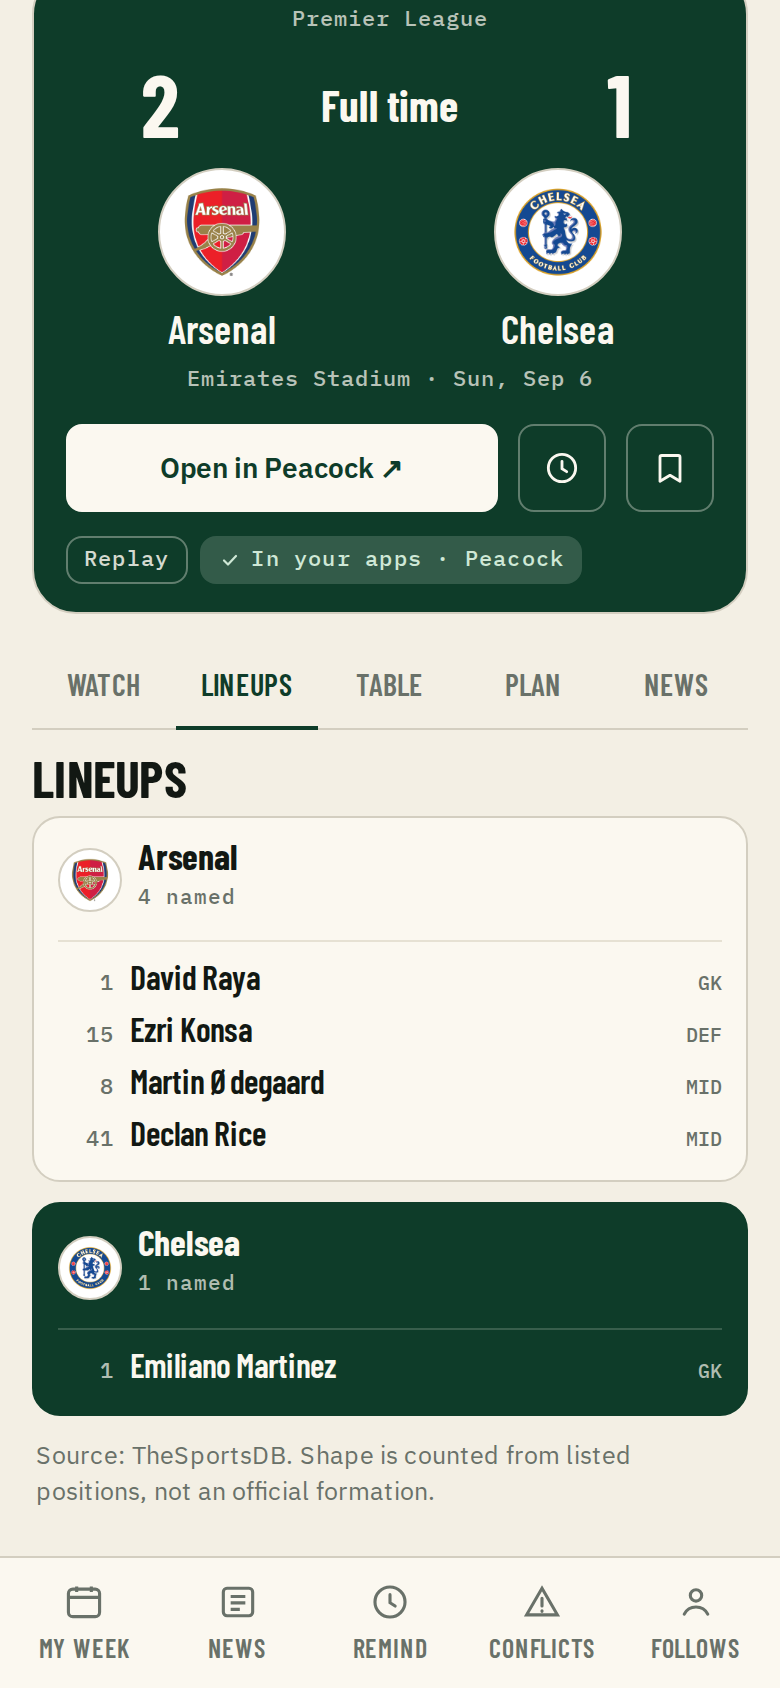
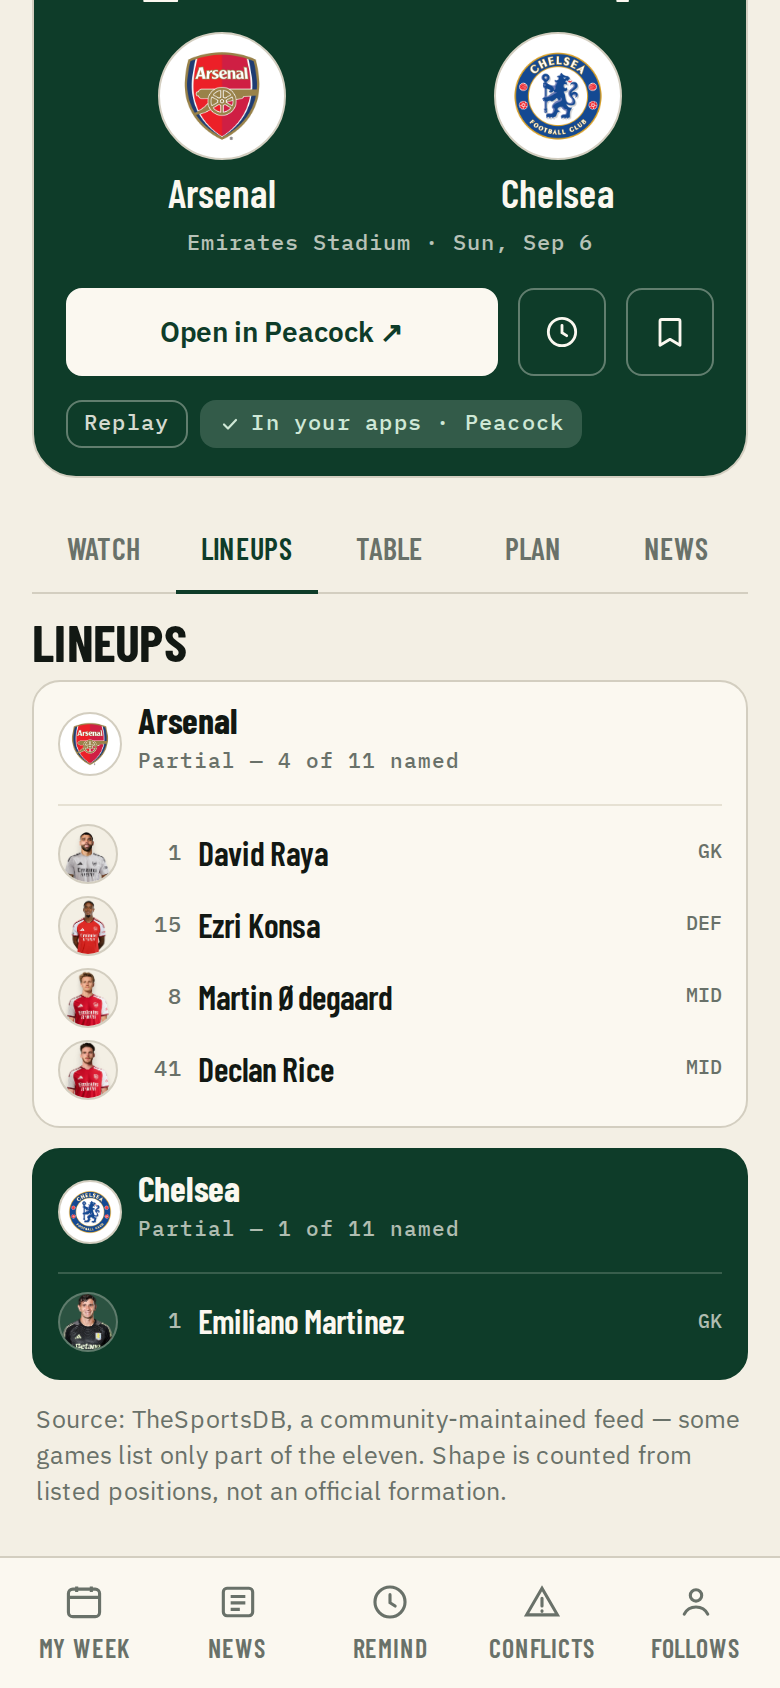
Player photos in lineups, club badges in the table
- Lineup rows show the feed's player cutout (lazy, falls back to a numbered circle)
- Table rows show the club badge: catalogue crest when known, else the feed's tiny badge

diff --git a/src/components/MatchExtras.tsx b/src/components/MatchExtras.tsx
@@ -1,5 +1,5 @@
 import { useEffect, useState } from 'react'
-import { getTeam } from '../data/teams'
+import { getTeam, TEAM_BY_SPORTSDB } from '../data/teams'
 import type { Fixture, Team } from '../domain/types'
 import {
   fetchLineup,
@@ -130,7 +130,12 @@ export function TablePanel({ fixture }: { fixture: Fixture }) {
             return (
               <tr key={r.teamSportsDbId} className={ids.has(r.teamSportsDbId) ? 'is-us' : undefined}>
                 <td className={gap ? 'gap' : undefined}>{r.rank}</td>
-                <td className="left">{r.team}</td>
+                <td className="left">
+                  <span className="club-cell">
+                    <TableBadge row={r} />
+                    {r.team}
+                  </span>
+                </td>
                 <td>{r.played}</td>
                 <td>{r.goalDiff > 0 ? `+${r.goalDiff}` : r.goalDiff}</td>
                 <td className="pts">{r.points}</td>
@@ -146,6 +151,14 @@ export function TablePanel({ fixture }: { fixture: Fixture }) {
   )
 }
 
+/** Crest for a table row: our catalogue if we know the club, else the feed's tiny badge. */
+function TableBadge({ row }: { row: StandingRow }) {
+  const known = TEAM_BY_SPORTSDB[row.teamSportsDbId]
+  const src = known?.espnLogoUrl ?? known?.badgeUrl ?? row.badgeUrl
+  if (!src) return <span className="table-badge empty" aria-hidden="true" />
+  return <img className="table-badge" src={src} alt="" loading="lazy" width={20} height={20} />
+}
+
 function ordinal(n: number): string {
   const s = ['th', 'st', 'nd', 'rd']
   const v = n % 100
@@ -154,9 +167,32 @@ function ordinal(n: number): string {
 
 /* ---------- Lineups ---------- */
 
+function PlayerPhoto({ player }: { player: LineupPlayer }) {
+  const [failed, setFailed] = useState(false)
+  if (!player.cutoutUrl || failed) {
+    return (
+      <span className="player-photo fallback" aria-hidden="true">
+        {player.number ?? '·'}
+      </span>
+    )
+  }
+  return (
+    <img
+      className="player-photo"
+      src={player.cutoutUrl}
+      alt=""
+      loading="lazy"
+      width={30}
+      height={30}
+      onError={() => setFailed(true)}
+    />
+  )
+}
+
 function PlayerLine({ player }: { player: LineupPlayer }) {
   return (
     <li className="player">
+      <PlayerPhoto player={player} />
       <span className="player-num">{player.number ?? '–'}</span>
       <span className="player-name">{player.name}</span>
       <span className="player-slot">{player.slot === 'SUB' ? '' : player.slot}</span>

diff --git a/src/styles/global.css b/src/styles/global.css
@@ -1550,6 +1550,25 @@ h3 {
   text-align: left;
 }
 
+.club-cell {
+  display: inline-flex;
+  align-items: center;
+  gap: 8px;
+}
+
+.table-badge {
+  width: 20px;
+  height: 20px;
+  object-fit: contain;
+  flex: none;
+}
+
+.table-badge.empty {
+  display: inline-block;
+  border-radius: 50%;
+  background: var(--line-soft);
+}
+
 .standings td.pts {
   font-family: var(--display);
   font-weight: 700;
@@ -1642,10 +1661,38 @@ h3 {
 
 .player {
   display: grid;
-  grid-template-columns: 28px 1fr auto;
-  align-items: baseline;
+  grid-template-columns: 30px 24px 1fr auto;
+  align-items: center;
   gap: 8px;
   padding: 3px 0;
+}
+
+.player-photo {
+  width: 30px;
+  height: 30px;
+  border-radius: 50%;
+  object-fit: cover;
+  object-position: top;
+  background: var(--paper);
+  border: 1px solid var(--line);
+  flex: none;
+}
+
+.player-photo.fallback {
+  display: grid;
+  place-items: center;
+  font-family: var(--mono);
+  font-size: 10px;
+  color: var(--ink-muted);
+}
+
+.lineup-side + .lineup-side .player-photo {
+  background: rgba(251, 248, 240, 0.12);
+  border-color: rgba(251, 248, 240, 0.25);
+}
+
+.lineup-side + .lineup-side .player-photo.fallback {
+  color: rgba(251, 248, 240, 0.7);
 }
 
 .player-num {

diff --git a/src/services/matchExtras.ts b/src/services/matchExtras.ts
@@ -41,6 +41,7 @@ export interface StandingRow {
   /** Most recent last, e.g. "WWDLW". */
   form: string
   note?: string
+  badgeUrl?: string
 }
 
 export interface LeagueTable {
@@ -72,6 +73,7 @@ interface RawTableRow {
   intPoints?: string
   strForm?: string | null
   strDescription?: string | null
+  strBadge?: string | null
 }
 
 const LINEUP_TTL_MS = 10 * 60 * 1000
@@ -173,6 +175,7 @@ export async function fetchTable(fixture: Fixture): Promise<LeagueTable | null> 
       points: toInt(r.intPoints),
       form: (r.strForm ?? '').replace(/[^WDL]/g, ''),
       note: r.strDescription ?? undefined,
+      badgeUrl: r.strBadge ?? undefined,
     }))
     .sort((a, b) => a.rank - b.rank)
   if (rows.length === 0) return cached
